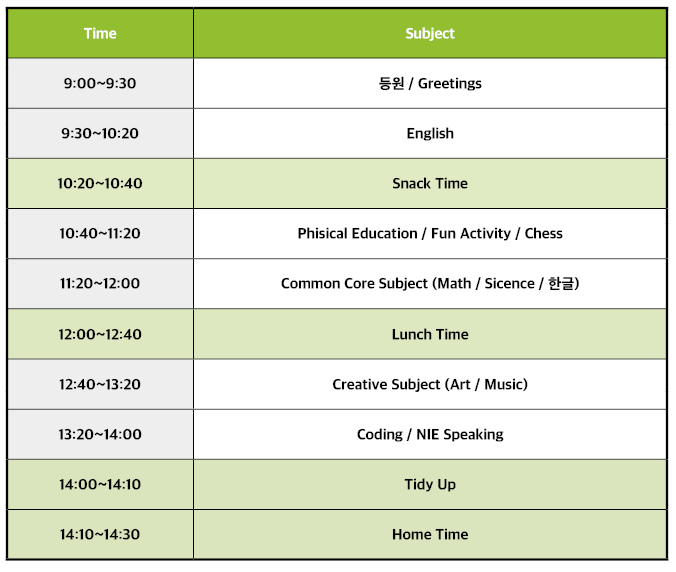
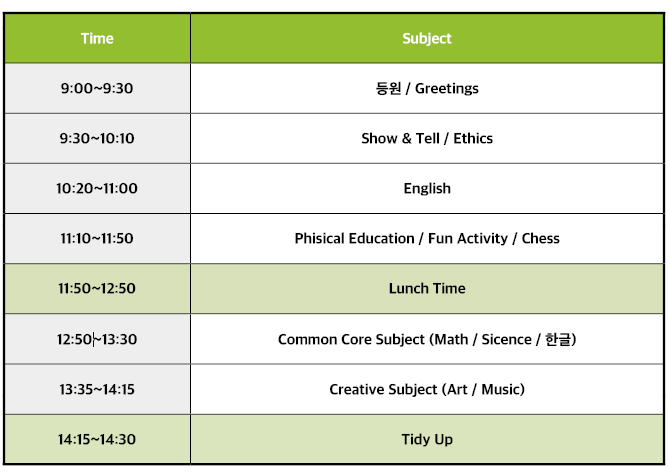
nie 등 수업 상세 수정, 킨더 타임테이블 수정 footer 수정, 트로피나인 링크 버튼 수정

diff --git a/lib/pages/SchoolCurriculumKindyPage.dart b/lib/pages/SchoolCurriculumKindyPage.dart
@@ -133,57 +133,57 @@ class _SchoolCurriculumKindyPageState extends State<SchoolCurriculumKindyPage> {
             SizedBox(height: 20),
             Container(
                 width: 600, child: Image.asset("assets/kindyTimetable.png")),
-            SizedBox(height: 40),
-            Text(
-              "Scholastic Reading",
-              style: TextStyle(fontFamily: "Jalnan", fontSize: 20),
-            ),
-            Divider(),
-            Container(
-                padding: EdgeInsets.only(top: 20, bottom: 20),
-                width: 500,
-                child: Image.asset("assets/scholasticLogo.jpg")),
-            Text(style: TextStyle(
-                color: Palette.black,
-                fontFamily: "MaruBuri",
-                fontWeight: FontWeight.normal,
-                fontSize: 14),
-                "Scholastic 은 전 세계적으로 가장 크고 유명한 출판사 중 하나로, 양질의 영문원서들과 다양한 관련 교육 프로그램들을 제공합니다.\n"
-                "Scholastic 은 'Lexile 지수'를 사용, 사용자의 읽기 능력을 판별하고, 읽기 능력에 따라 적합한 레벨의 서적들을 제시합니다.\n"
-                "글림아일랜드는 Scholastic 에서 출판한 교육적이며 재미있는 영문 원서들로 구성된 자체 Library 를 제공하며,\n"
-                "풍부한 reading material 들을 활용하여 Slow reading 기법을 적용한 재미있는 읽기 수업을 진행합니다.\n"),
+            // SizedBox(height: 40),
             // Text(
-            //   "렉사일 수준이란 무엇입니까?\n",
-            //   style: TextStyle(fontFamily: "Jalnan", fontSize: 15),
+            //   "Scholastic Reading",
+            //   style: TextStyle(fontFamily: "Jalnan", fontSize: 20),
             // ),
+            // Divider(),
+            // Container(
+            //     padding: EdgeInsets.only(top: 20, bottom: 20),
+            //     width: 500,
+            //     child: Image.asset("assets/scholasticLogo.jpg")),
             // Text(style: TextStyle(
             //     color: Palette.black,
             //     fontFamily: "MaruBuri",
             //     fontWeight: FontWeight.normal,
             //     fontSize: 14),
-            //     "학교에서 학생 독자의 능력을 측정하는 데 사용하는 인기 있는 방법은 Lexile 수준 또는 Lexile 측정입니다. Lexile 지수는 교사, 학부모, 학생에게 유용한 도구입니다.\n"
-            //     "두 가지 고유한 기능을 제공합니다. 텍스트가 얼마나 어려운지 또는 학생의 읽기 능력 수준을 측정하는 것입니다.\n"
-            //     "Lexile Framework는 원래 국립 아동 건강 및 인간 발달 연구소(National Institute of Child Health and Human Development)의\n"
-            //     "자금 지원을 받은 교육 평가 및 연구 팀인 MetaMetrics©에서 개발했습니다.\n\n"
-            //     "* 렉사일 점수는 무엇을 의미합니까?:\n\n"
-            //     "학생은 Lexile 또는 읽기 능력을 측정하기 위해 특별히 고안된 학교에서 시행하는 SRI(Scholastic Reading Inventory) 시험을 치르거나 독자의 결과를 렉사일 지수.\n"
-            //     "학생이 550L을 받으면 550레벨 Lexile 독자입니다. 550L은 가독성 수준의 척도입니다. 절대 점수라고 하지 않는다는 점에 유의하세요! 이것은 학생의 성취를 격려합니다.\n\n"
-            //     "* 책의 Lexile을 찾는 방법:\n\n"
-            //     "책의 Lexile 지수는 MetaMetrics©에서 분석합니다.\n"
-            //     "텍스트가 평가된 후 학생의 가독성 수준과 같은 측정값이 제공됩니다(예: 600L).\n"
-            //     "이 측정에서 MetaMetrics©는 텍스트의 난이도를 평가하고 있습니다. 500L의 책이나 잡지의 Lexile 레벨은 500입니다.\n"
-            //     "MetaMetrics©는 텍스트가 독자가 이해하기 얼마나 어려울지 예측하고 평가합니다. 테스트하는 두 가지 주요 기준은 단어 빈도와 문장 강도입니다.\n"
-            //     "텍스트의 Lexile Framework는 10L이 가장 낮은 값으로 10씩 증가합니다. 10L 미만의 측정값은 BR 또는 초급 독자로 분류됩니다.\n\n"
-            //     "* 실제 Lexile 수준:\n\n"
-            //     "독자와 텍스트 모두에게 이상적인 것은 평가된 Lexile 측정치를 모두 일치시키는 것입니다.\n"
-            //     "예를 들어 책이나 잡지에 770L이 있고 독자는 Lexile 수준 770으로 평가됩니다. 교실당 읽기 수준은 광범위하고 다양합니다.\n"
-            //     "학생을 이상적인 텍스트에 맞추는 데에는 여러 가지 요소가 있습니다.\n"
-            //     "Lexile Framework는 개입이 필요한 영역을 대상으로 하고 학년 수준 및 커리큘럼 전반에 걸쳐 성취를 장려하므로 올바른 Lexile 수준에서 올바른 책을 선택하는 데 좋은 출발점입니다.\n\n"
-            //     "* 자녀의 렉사일 수준에 맞는 책을 찾는 방법:\n\n"
-            //     "Lexile 수준은 책의 난이도와 가독성에 따라 과학적, 수학적으로 지정됩니다.\n"
-            //     "자녀의 Lexile 수준을 알면 이 수준에 맞는 책을 검색하여 가정 도서관을 확장하고 가정에서 매일 읽기 연습을 장려할 수 있습니다.\n"
-            //     "Lexile 데이터베이스를 사용하여 Lexile 수준, 제목 또는 주제별로 검색하여 자녀가 좋아하고 읽기 성취도에 낙담하지 않고 읽을 수 있는 책을 찾으십시오.\n"
-            //     "아래 차트를 사용하여 Lexile 수준을 다른 수준별 읽기 시스템과 비교하십시오:"),
+            //     "Scholastic 은 전 세계적으로 가장 크고 유명한 출판사 중 하나로, 양질의 영문원서들과 다양한 관련 교육 프로그램들을 제공합니다.\n"
+            //     "Scholastic 은 'Lexile 지수'를 사용, 사용자의 읽기 능력을 판별하고, 읽기 능력에 따라 적합한 레벨의 서적들을 제시합니다.\n"
+            //     "글림아일랜드는 Scholastic 에서 출판한 교육적이며 재미있는 영문 원서들로 구성된 자체 Library 를 제공하며,\n"
+            //     "풍부한 reading material 들을 활용하여 Slow reading 기법을 적용한 재미있는 읽기 수업을 진행합니다.\n"),
+            // // Text(
+            // //   "렉사일 수준이란 무엇입니까?\n",
+            // //   style: TextStyle(fontFamily: "Jalnan", fontSize: 15),
+            // // ),
+            // // Text(style: TextStyle(
+            // //     color: Palette.black,
+            // //     fontFamily: "MaruBuri",
+            // //     fontWeight: FontWeight.normal,
+            // //     fontSize: 14),
+            // //     "학교에서 학생 독자의 능력을 측정하는 데 사용하는 인기 있는 방법은 Lexile 수준 또는 Lexile 측정입니다. Lexile 지수는 교사, 학부모, 학생에게 유용한 도구입니다.\n"
+            // //     "두 가지 고유한 기능을 제공합니다. 텍스트가 얼마나 어려운지 또는 학생의 읽기 능력 수준을 측정하는 것입니다.\n"
+            // //     "Lexile Framework는 원래 국립 아동 건강 및 인간 발달 연구소(National Institute of Child Health and Human Development)의\n"
+            // //     "자금 지원을 받은 교육 평가 및 연구 팀인 MetaMetrics©에서 개발했습니다.\n\n"
+            // //     "* 렉사일 점수는 무엇을 의미합니까?:\n\n"
+            // //     "학생은 Lexile 또는 읽기 능력을 측정하기 위해 특별히 고안된 학교에서 시행하는 SRI(Scholastic Reading Inventory) 시험을 치르거나 독자의 결과를 렉사일 지수.\n"
+            // //     "학생이 550L을 받으면 550레벨 Lexile 독자입니다. 550L은 가독성 수준의 척도입니다. 절대 점수라고 하지 않는다는 점에 유의하세요! 이것은 학생의 성취를 격려합니다.\n\n"
+            // //     "* 책의 Lexile을 찾는 방법:\n\n"
+            // //     "책의 Lexile 지수는 MetaMetrics©에서 분석합니다.\n"
+            // //     "텍스트가 평가된 후 학생의 가독성 수준과 같은 측정값이 제공됩니다(예: 600L).\n"
+            // //     "이 측정에서 MetaMetrics©는 텍스트의 난이도를 평가하고 있습니다. 500L의 책이나 잡지의 Lexile 레벨은 500입니다.\n"
+            // //     "MetaMetrics©는 텍스트가 독자가 이해하기 얼마나 어려울지 예측하고 평가합니다. 테스트하는 두 가지 주요 기준은 단어 빈도와 문장 강도입니다.\n"
+            // //     "텍스트의 Lexile Framework는 10L이 가장 낮은 값으로 10씩 증가합니다. 10L 미만의 측정값은 BR 또는 초급 독자로 분류됩니다.\n\n"
+            // //     "* 실제 Lexile 수준:\n\n"
+            // //     "독자와 텍스트 모두에게 이상적인 것은 평가된 Lexile 측정치를 모두 일치시키는 것입니다.\n"
+            // //     "예를 들어 책이나 잡지에 770L이 있고 독자는 Lexile 수준 770으로 평가됩니다. 교실당 읽기 수준은 광범위하고 다양합니다.\n"
+            // //     "학생을 이상적인 텍스트에 맞추는 데에는 여러 가지 요소가 있습니다.\n"
+            // //     "Lexile Framework는 개입이 필요한 영역을 대상으로 하고 학년 수준 및 커리큘럼 전반에 걸쳐 성취를 장려하므로 올바른 Lexile 수준에서 올바른 책을 선택하는 데 좋은 출발점입니다.\n\n"
+            // //     "* 자녀의 렉사일 수준에 맞는 책을 찾는 방법:\n\n"
+            // //     "Lexile 수준은 책의 난이도와 가독성에 따라 과학적, 수학적으로 지정됩니다.\n"
+            // //     "자녀의 Lexile 수준을 알면 이 수준에 맞는 책을 검색하여 가정 도서관을 확장하고 가정에서 매일 읽기 연습을 장려할 수 있습니다.\n"
+            // //     "Lexile 데이터베이스를 사용하여 Lexile 수준, 제목 또는 주제별로 검색하여 자녀가 좋아하고 읽기 성취도에 낙담하지 않고 읽을 수 있는 책을 찾으십시오.\n"
+            // //     "아래 차트를 사용하여 Lexile 수준을 다른 수준별 읽기 시스템과 비교하십시오:"),
             SizedBox(height: 40),
             Text(
               "Wonder Code",
@@ -201,26 +201,34 @@ class _SchoolCurriculumKindyPageState extends State<SchoolCurriculumKindyPage> {
                 fontSize: 14),
                 "원더코드는 코딩 및 IT 전문 교육 기관으로, 글림아일랜드는 원더코드와 손잡고\n"
                 "아이들의 프로그래밍적 사고와 문제해결능력을 키우기 위한 특별한 코딩 교육을 제공합니다."),
-            SizedBox(height: 20),
-
+            SizedBox(
+                height: 40),
             Text(
-              "NIE",
+              "NIE 영자신문 수업",
               style: TextStyle(fontFamily: "Jalnan", fontSize: 20),
             ),
-
             Divider(),
             SizedBox(height: 20),
-            Container( alignment: Alignment.topLeft,
-                width: 500, child: Image.asset("assets/kinderTimesLogo.png")),
-            SizedBox(height: 20),
-            Text(style: TextStyle(
-                color: Palette.black,
-                fontFamily: "MaruBuri",
-                fontWeight: FontWeight.normal,
-                fontSize: 14),
-                "킨더 타임즈, 키즈 타임즈, 주니어 타임즈 등 아이들의 레벨과 연령에 맞추어 다양한 영자신문을 제공하는\n"
-                    "어린이 영자 신문 전문 브랜드로, 글림아일랜드는 유치부 NIE Speaking 수업과 초등부 NIE Debate 수업을 위하여\n"
-                    "모든 레벨의 어린이 영자신문을 class material 로 적극 활용합니다."),
+            Container(width:600,
+                margin: EdgeInsets.only(top:10,bottom: 10,left: 30, right: 30),
+                child: Image.asset("assets/nieAd2.png")),
+            Container(
+              width: 600,
+              margin: EdgeInsets.only(top:10,bottom: 10,left: 30, right:30),
+              child: Text(style: TextStyle(
+                  color: Palette.black,
+                  fontFamily: "MaruBuri",
+                  fontWeight: FontWeight.normal,
+                  fontSize: 14),
+                  "킨더 타임즈, 키즈 타임즈, 주니어 타임즈 등 아이들의 레벨과 연령에 맞추어 다양한 영자신문을 제공하는 어린이 영자 신문 전문 브랜드로, "
+                      "글림아일랜드는 유치부 NIE Speaking 수업과 초등부 NIE Debate 수업을 위하여"
+                      "모든 레벨의 어린이 영자신문을 class material 로 적극 활용합니다."),
+            ),
+            Divider(),
+            SizedBox(height: 10),
+            Image.asset("assets/nieAd.png"),
+
+            Divider(),
             SizedBox(height: 20),
           ],
         ),

diff --git a/lib/pages/SchoolMainPage.dart b/lib/pages/SchoolMainPage.dart
@@ -10,6 +10,7 @@ import 'package:gi_english_website/widget/MobileSchoolLayout.dart';
 import 'package:gi_english_website/widget/WebSchoolLayout.dart';
 
 import '../admin/page/AdminLoginPage.dart';
+import '../util/UrlIUtil.dart';
 
 class SchoolMainPage extends StatefulWidget {
   const SchoolMainPage({Key? key}) : super(key: key);
@@ -190,7 +191,7 @@ class _SchoolMainPageState extends State<SchoolMainPage> {
                 child: Row(
                   children: [
                     Expanded(
-                      flex: 2,
+                      flex: 3,
                       child: Container(
                         padding: EdgeInsets.only(left: 15, top: 5, bottom: 5),
                         alignment: Alignment.center,
@@ -212,12 +213,13 @@ class _SchoolMainPageState extends State<SchoolMainPage> {
                       color: Palette.mainGrey,
                     ),
                     Expanded(
-                      flex: 2,
+                      flex: 3,
                       child: Container(
-                        alignment: Alignment.center,
-                        child: Container(
-                            padding: EdgeInsets.all(15),
-                            child: Image.asset("assets/giKidsWeekendLogo.png")),
+                        margin: EdgeInsets.all(10),
+                        child: InkWell(child: Image.asset("assets/trophyLogo.png"),
+                          onTap: () async {
+                            UrlUtil.open('https://www.trophy9.com/');
+                          },),
                       ),
                     ),
                   ],
@@ -252,7 +254,7 @@ class _SchoolMainPageState extends State<SchoolMainPage> {
                           style: TextStyle(
                               color: Palette.black, fontFamily: "Jalnan")),
                       onPressed: () {
-                        MenuUtil.push(context, SchoolCommunityNoticePage());
+                        // MenuUtil.push(context, SchoolCommunityNoticePage());
                       },
                     ),
 
@@ -515,6 +517,16 @@ class _SchoolMainPageState extends State<SchoolMainPage> {
               )
             ],
           ),
+          SizedBox(height: 10,),
+          Container(
+            alignment: Alignment.center,
+            height: 90,
+            margin: EdgeInsets.all(10),
+            child: InkWell(child: Image.asset("assets/trophyLogo.png"),
+              onTap: () async {
+                UrlUtil.open('https://www.trophy9.com/');
+              },),
+          ),
         ],
       ),
     );
@@ -539,7 +551,7 @@ class _SchoolMainPageState extends State<SchoolMainPage> {
                         style: TextStyle(
                             color: Palette.black, fontFamily: "Jalnan")),
                     onPressed: () {
-                      MenuUtil.push(context, SchoolCommunityNoticePage());
+                      // MenuUtil.push(context, SchoolCommunityNoticePage());
                     },
                   ),
                   height: 50,

diff --git a/lib/pages/SchoolCurriculumElePage.dart b/lib/pages/SchoolCurriculumElePage.dart
@@ -141,27 +141,32 @@ class _SchoolCurriculumElePageState extends State<SchoolCurriculumElePage> {
                 height: 20),
             Container(width:600, child: Image.asset("assets/eleTimetableTuesThurs.png")),
             SizedBox(
-                height: 20),
-
+                height: 10),
             Text(
-              "NIE",
+              "NIE 영자신문 수업",
               style: TextStyle(fontFamily: "Jalnan", fontSize: 20),
             ),
-
             Divider(),
             SizedBox(height: 20),
-            Container( alignment: Alignment.topLeft,
-                child: Row(children: [Image.asset("assets/juniorTimesLogo.png")],)),
-            SizedBox(height: 20),
-            Text(style: TextStyle(
-                color: Palette.black,
-                fontFamily: "MaruBuri",
-                fontWeight: FontWeight.normal,
-                fontSize: 14),
-                "킨더 타임즈, 키즈 타임즈, 주니어 타임즈 등 아이들의 레벨과 연령에 맞추어 다양한 영자신문을 제공하는\n"
-                    "어린이 영자 신문 전문 브랜드로, 글림아일랜드는 유치부 NIE Speaking 수업과 초등부 NIE Debate 수업을 위하여\n"
-                    "모든 레벨의 어린이 영자신문을 class material 로 적극 활용합니다."),
-            SizedBox(height: 20),
+            Container(width:600,
+                margin: EdgeInsets.only(top:10,bottom: 10,left: 30, right: 30),
+                child: Image.asset("assets/nieAd2.png")),
+            Container(
+              width: 600,
+              margin: EdgeInsets.only(top:10,bottom: 10,left: 30, right:30),
+              child: Text(style: TextStyle(
+                  color: Palette.black,
+                  fontFamily: "MaruBuri",
+                  fontWeight: FontWeight.normal,
+                  fontSize: 14),
+                  "킨더 타임즈, 키즈 타임즈, 주니어 타임즈 등 아이들의 레벨과 연령에 맞추어 다양한 영자신문을 제공하는 어린이 영자 신문 전문 브랜드로, "
+                      "글림아일랜드는 유치부 NIE Speaking 수업과 초등부 NIE Debate 수업을 위하여"
+                      "모든 레벨의 어린이 영자신문을 class material 로 적극 활용합니다."),
+            ),
+            Divider(),
+            SizedBox(height: 10),
+            Image.asset("assets/nieAd.png"),
+
 
           ],
         ),

diff --git a/lib/util/MyWidget.dart b/lib/util/MyWidget.dart
@@ -7,19 +7,25 @@ class MyWidget {
 
 
   static Widget footer() {
-    return Stack(
+    return Container(width: double.infinity, color: Palette.lightestEarth,
       alignment: Alignment.centerLeft,
-      children: [
-        Container(width: double.infinity, color: Palette.lightestEarth),
-        Container(
-          padding: EdgeInsets.all(20),
-          alignment: Alignment.centerLeft,
-
-          child: Text(
-                "Gi Gleam Island 어학원 파주\n"
-                "경기도 파주시 해올1길 태산 W 타워 7층\n"
+      padding: EdgeInsets.all(20),
+      child: Column(
+        mainAxisAlignment: MainAxisAlignment.center,
+        crossAxisAlignment: CrossAxisAlignment.start,
+        children: [
+          Text(
+            "Gi Gleam Island 어학원 파주",
+            style: TextStyle(
+                color: Palette.black,
+                fontFamily: "Decoshadow",
+                fontWeight: FontWeight.bold,
+                fontSize: 14),
+          ),
+          SizedBox(height: 5,),
+          Text("경기도 파주시 해올1길 태산 W 타워 7층\n"
                 "문의 : 준비중, 본 웹사이트의 상담문의 페이지 또는 이메일을 이용해주세요. \n"
-                    "email : gienglish.paju@gmail.com\n"
+                "email : gienglish.paju@gmail.com\n"
                 "사업자명 : 글림아일랜드 어학원 / 대표자명 : 김남희\n"
                 "사업자 등록번호 : 준비중\n"
                 "신고번호 : 준비중\n"
@@ -27,8 +33,8 @@ class MyWidget {
             style: TextStyle(color: Palette.black, fontFamily: "MaruBuri", fontWeight: FontWeight.normal,
                 fontSize: 14),
           ),
-        ),
-      ],
+        ],
+      )
     );
   }
 

diff --git a/lib/widget/WebSchoolLayout.dart b/lib/widget/WebSchoolLayout.dart
@@ -216,7 +216,7 @@ class _WebSchoolLayoutState extends State<WebSchoolLayout> {
             SizedBox(width: 20),
             InkWell(
                 onTap: (){
-                  MenuUtil.push(context, SchoolCommunityNoticePage());
+                  // MenuUtil.push(context, SchoolCommunityNoticePage());
                   },
                 child: Text("Community", style: TextStyle(color: Palette.earth,
                     fontFamily: "MaruBuri",

diff --git a/lib/widget/MobileSchoolLayout.dart b/lib/widget/MobileSchoolLayout.dart
@@ -160,7 +160,7 @@ class _MobileSchoolLayoutState extends State<MobileSchoolLayout> {
               SizedBox(width: 30),
               InkWell(
                   onTap: (){
-                    MenuUtil.push(context, SchoolCommunityNoticePage());
+                    // MenuUtil.push(context, SchoolCommunityNoticePage());
                     },
                   child:
                   Container(
